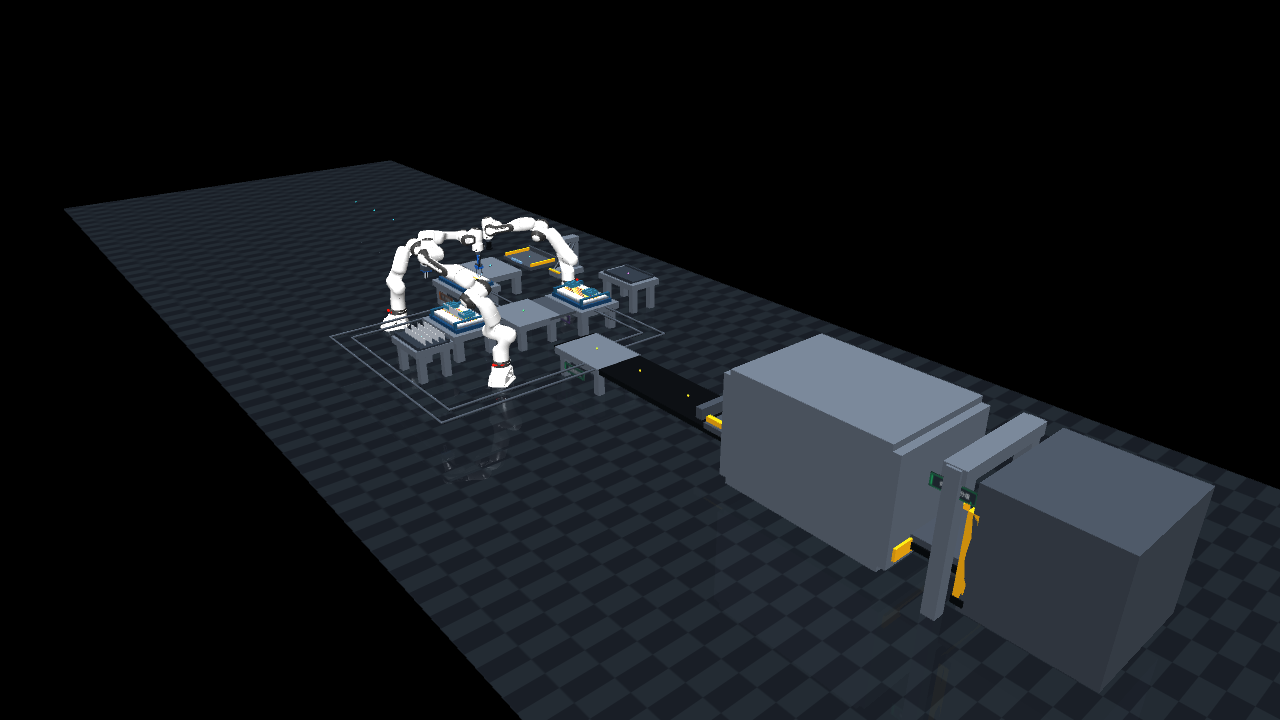
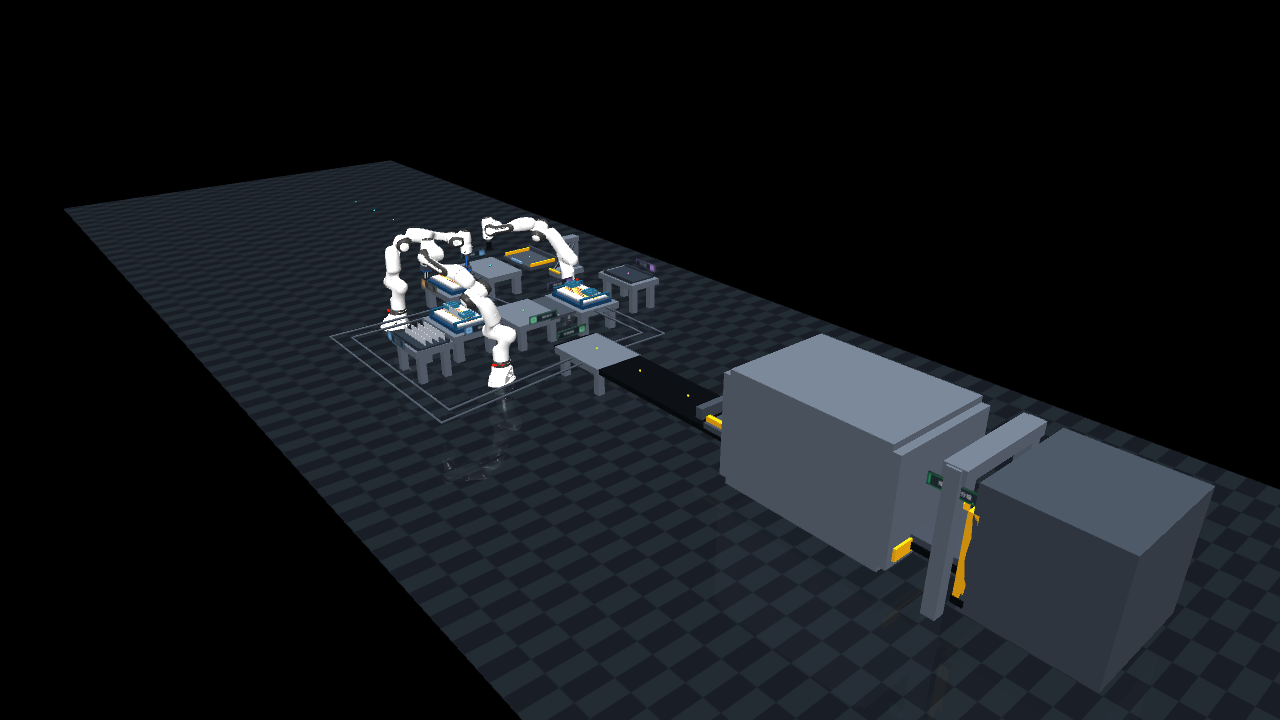
fix(v2): align inspection routes and station plaques
Closes #10

diff --git a/tests/v2/test_v2_dual_line_scene.py b/tests/v2/test_v2_dual_line_scene.py
@@ -385,9 +385,9 @@ def test_v2_arm3_cell_matches_the_marked_south_magazine_layout(model) -> None:
     # between the two tabletop footprints.
     assert float(install[1] - magazine[1]) >= 0.39
 
-    # The B-line wait lies beyond the complete Arm3 cell and approaches the
-    # relocated shared table from the east.  Runtime waypoints supply the
-    # south dog-leg; a direct install→wait chord is intentionally not used.
+    # The B-line wait lies beyond the complete Arm3 cell. Runtime waypoints
+    # supply the south dog-leg; only the final wait→S4 segment runs directly
+    # into the shared table centre.
     assert float(merge_wait[0] - arm3[0]) >= 0.55
     assert float(arm3[1] - merge_wait[1]) >= 0.65
     assert 0.10 <= float(merge_wait[0] - merge[0]) <= 0.20
@@ -473,7 +473,7 @@ def test_v2_s3_s4_routes_remain_on_the_station_transport_plane(model) -> None:
         station_height,
     )
 
-    segment_counts = {"a": 2, "b": 5}
+    segment_counts = {"a": 2, "b": 4}
     for branch, count in segment_counts.items():
         for side in ("left", "right"):
             for index in range(1, count + 1):
@@ -483,7 +483,7 @@ def test_v2_s3_s4_routes_remain_on_the_station_transport_plane(model) -> None:
 
     for side in ("left", "right"):
         with pytest.raises(KeyError):
-            model.geom(f"v2_install_b_s4_rail_{side}_06")
+            model.geom(f"v2_install_b_s4_rail_{side}_05")
 
     for name in (
         "v2_s3a_overpass_lift_left",
@@ -652,7 +652,9 @@ def test_v2_key_process_equipment_has_visible_chinese_station_plaques(model) -> 
         "v2_s1_station_sign",
         "v2_s2a_station_sign",
         "v2_s2b_station_sign",
+        "v2_fin_a_station_sign",
         "v2_s3a_station_sign",
+        "v2_fin_b_station_sign",
         "v2_s3b_station_sign",
         "v2_s4_station_sign",
         "v2_furnace_station_sign",
@@ -660,6 +662,94 @@ def test_v2_key_process_equipment_has_visible_chinese_station_plaques(model) -> 
         "v2_finished_output_sign",
     ):
         model.geom(geom_name)
+
+
+def test_v2_each_table_has_a_distinct_correctly_named_prominent_plaque(model) -> None:
+    """Every worktable needs its own truthful sign above an outside edge."""
+
+    tables = (
+        ("v2_station_s1_top", "v2_s1_station_sign"),
+        ("v2_station_s2a_top", "v2_s2a_station_sign"),
+        ("v2_station_s2b_top", "v2_s2b_station_sign"),
+        ("v2_fin_table_a_top", "v2_fin_a_station_sign"),
+        ("v2_station_s3a_top", "v2_s3a_station_sign"),
+        ("v2_fin_table_b_top", "v2_fin_b_station_sign"),
+        ("v2_station_s3b_top", "v2_s3b_station_sign"),
+        ("v2_station_s4_top", "v2_s4_station_sign"),
+    )
+    material_ids: set[int] = set()
+    for tabletop_name, plaque_name in tables:
+        tabletop = model.geom(tabletop_name)
+        plaque = model.geom(plaque_name)
+        assert float(plaque.pos[2]) > float(tabletop.pos[2] + tabletop.size[2])
+        assert abs(float(plaque.pos[0])) > float(tabletop.size[0]) or abs(float(plaque.pos[1])) > float(
+            tabletop.size[1]
+        )
+        material_ids.add(int(plaque.matid[0]))
+    assert len(material_ids) == len(tables)
+
+    root = ElementTree.parse(V2_XML).getroot()
+    textures = {
+        node.attrib["name"]: node.attrib["file"]
+        for node in root.findall("./asset/texture")
+        if "file" in node.attrib
+    }
+    assert {
+        textures["v2_s1_sign_tex"],
+        textures["v2_s2a_sign_tex"],
+        textures["v2_s2b_sign_tex"],
+        textures["v2_fin_a_sign_tex"],
+        textures["v2_s3a_sign_tex"],
+        textures["v2_fin_b_sign_tex"],
+        textures["v2_s3b_sign_tex"],
+        textures["v2_s4_sign_tex"],
+    } == {
+        "assets/signs/v2_s1_base_loading_sign.png",
+        "assets/signs/v2_s2a_dispensing_sign.png",
+        "assets/signs/v2_s2b_coating_inspection_sign.png",
+        "assets/signs/v2_fin_a_supply_sign.png",
+        "assets/signs/v2_s3a_install_sign.png",
+        "assets/signs/v2_fin_b_supply_sign.png",
+        "assets/signs/v2_s3b_install_sign.png",
+        "assets/signs/v2_s4_pre_braze_inspection_sign.png",
+    }
+
+
+def test_v2_s1_s2a_has_a_visible_aisle_and_full_length_slide_rail(model) -> None:
+    """The first two tabletops must not hide almost the whole slide rail."""
+
+    s1 = np.asarray(model.body("v2_station_s1").pos[:2], dtype=float)
+    s2a = np.asarray(model.body("v2_station_s2a").pos[:2], dtype=float)
+    s1_top = model.geom("v2_station_s1_top")
+    s2a_top = model.geom("v2_station_s2a_top")
+    visible_y_gap = abs(float(s1[1] - s2a[1])) - float(
+        s1_top.size[1] + s2a_top.size[1],
+    )
+    assert visible_y_gap >= 0.10
+    assert float(np.linalg.norm(s2a - s1)) >= 0.49
+    for side in ("left", "right"):
+        rail = model.geom(f"v2_s1_s2a_rail_{side}")
+        assert 2.0 * float(rail.size[1]) >= 0.49
+
+
+def test_v2_branch_b_visible_rails_enter_the_exact_s4_centre(model) -> None:
+    """The right-hand route must not stop at an offset east-side spur."""
+
+    import mujoco
+
+    data = mujoco.MjData(model)
+    mujoco.mj_forward(model, data)
+    s4 = np.asarray(data.site("v2_station_s4_dock").xpos, dtype=float)
+    closest_endpoints: list[np.ndarray] = []
+    for side in ("left", "right"):
+        rail = model.geom(f"v2_install_b_s4_rail_{side}_04")
+        rotation = np.asarray(data.geom_xmat[rail.id], dtype=float).reshape(3, 3)
+        axis = rotation[:, 2]
+        center = np.asarray(data.geom_xpos[rail.id], dtype=float)
+        half_length = float(rail.size[1])
+        endpoints = (center - axis * half_length, center + axis * half_length)
+        closest_endpoints.append(min(endpoints, key=lambda point: float(np.linalg.norm(point - s4))))
+    np.testing.assert_allclose(np.mean(closest_endpoints, axis=0), s4 + (0.0, 0.0, -0.027))
 
 
 def test_v2_two_installation_branches_each_show_twelve_raw_fins(model) -> None:
@@ -878,7 +968,7 @@ def test_v2_robot_layout_reaches_every_authored_process_target_with_margin() -> 
             (
                 arm2,
                 arm2.solve_ik(
-                    Pose((-0.35, 0.0, 0.32), top_down_reversed),
+                    Pose((-0.35, -0.10, 0.32), top_down_reversed),
                     tcp=True,
                     full_orientation=True,
                     max_iterations=1_000,

diff --git a/scripts/generate_v2_station_signs.py b/scripts/generate_v2_station_signs.py
@@ -1,0 +1,105 @@
+"""Generate the V2 worktable plaques used by the MuJoCo scene.
+
+The files are generated rather than hand-edited so station wording, colours,
+resolution, and visual hierarchy remain reproducible.
+"""
+
+from __future__ import annotations
+
+from dataclasses import dataclass
+from pathlib import Path
+
+from PIL import Image, ImageDraw, ImageFont
+
+ROOT = Path(__file__).resolve().parents[1]
+OUTPUT_DIR = ROOT / "assets" / "signs"
+FONT_CANDIDATES = (
+    Path("/System/Library/Fonts/STHeiti Medium.ttc"),
+    Path("/System/Library/Fonts/PingFang.ttc"),
+    Path("/usr/share/fonts/opentype/noto/NotoSansCJK-Regular.ttc"),
+)
+
+
+@dataclass(frozen=True, slots=True)
+class Plaque:
+    filename: str
+    code: str
+    title: str
+    accent: str
+
+
+PLAQUES = (
+    Plaque("v2_s1_base_loading_sign.png", "S1", "基板上料", "#6DA8D9"),
+    Plaque("v2_s2a_dispensing_sign.png", "S2A", "钎料涂覆", "#D9A05E"),
+    Plaque("v2_s2b_coating_inspection_sign.png", "S2B", "焊料检测", "#68B88C"),
+    Plaque("v2_fin_a_supply_sign.png", "A线", "翅片上料", "#A97ED1"),
+    Plaque("v2_s3a_install_sign.png", "S3A", "翅片装配", "#A97ED1"),
+    Plaque("v2_fin_b_supply_sign.png", "B线", "翅片上料", "#72A7D6"),
+    Plaque("v2_s3b_install_sign.png", "S3B", "翅片装配", "#72A7D6"),
+    Plaque("v2_s4_pre_braze_inspection_sign.png", "S4", "焊前检测", "#68B88C"),
+)
+
+
+def _font(size: int) -> ImageFont.FreeTypeFont:
+    for candidate in FONT_CANDIDATES:
+        if candidate.exists():
+            return ImageFont.truetype(str(candidate), size=size)
+    raise FileNotFoundError("未找到支持中文的铭牌字体")
+
+
+def _centered_y(
+    draw: ImageDraw.ImageDraw,
+    text: str,
+    font: ImageFont.FreeTypeFont,
+    height: int,
+) -> float:
+    bounds = draw.textbbox((0, 0), text, font=font)
+    return 0.5 * (height - (bounds[3] - bounds[1])) - bounds[1]
+
+
+def render(plaque: Plaque) -> Image.Image:
+    width, height = 1024, 256
+    image = Image.new("RGB", (width, height), "#18232D")
+    draw = ImageDraw.Draw(image)
+    accent = plaque.accent
+    draw.rounded_rectangle(
+        (10, 10, width - 11, height - 11),
+        radius=34,
+        outline=accent,
+        width=12,
+    )
+    draw.rounded_rectangle(
+        (40, 38, 252, height - 39),
+        radius=26,
+        fill=accent,
+    )
+    code_font = _font(72)
+    title_font = _font(92)
+    code_bounds = draw.textbbox((0, 0), plaque.code, font=code_font)
+    code_x = 146 - 0.5 * (code_bounds[2] - code_bounds[0]) - code_bounds[0]
+    draw.text(
+        (code_x, _centered_y(draw, plaque.code, code_font, height)),
+        plaque.code,
+        font=code_font,
+        fill="#10202B",
+    )
+    title_bounds = draw.textbbox((0, 0), plaque.title, font=title_font)
+    title_x = 632 - 0.5 * (title_bounds[2] - title_bounds[0]) - title_bounds[0]
+    draw.text(
+        (title_x, _centered_y(draw, plaque.title, title_font, height)),
+        plaque.title,
+        font=title_font,
+        fill="#F4F7FA",
+    )
+    draw.ellipse((952, 106, 986, 140), fill=accent)
+    return image
+
+
+def main() -> None:
+    OUTPUT_DIR.mkdir(parents=True, exist_ok=True)
+    for plaque in PLAQUES:
+        render(plaque).save(OUTPUT_DIR / plaque.filename, optimize=True)
+
+
+if __name__ == "__main__":
+    main()

diff --git a/brazing_sim/dual_line/scene_adapter.py b/brazing_sim/dual_line/scene_adapter.py
@@ -27,7 +27,6 @@ _V1_COMB_LONGITUDINAL_CLEARANCE_M = 0.008
 _V1_COMB_LATERAL_CLEARANCE_M = 0.010
 _BRANCH_B_WEST_CLEAR_X_M = 0.05
 _BRANCH_B_SOUTH_CLEAR_Y_M = -1.22
-_BRANCH_B_EAST_CLEAR_X_M = 1.55
 
 
 @dataclass(slots=True)
@@ -574,11 +573,11 @@ class DualLineSceneAdapter:
         Both S3 branches remain on the station transport plane.  The A branch
         passes north of S2B.  The denser B branch first clears the S2B west
         edge, then follows the south perimeter around the Arm3 cell before
-        entering the relocated S4 from its short east-side approach.  Moving
-        the inspection table toward the furnace removes the former north-side
-        return loop and its visible reverse motion.  These waypoints use the
-        complete 400-by-280 mm pallet envelope; they are not centreline-only
-        shortcuts.
+        running directly from its southeast wait into the relocated S4 centre.
+        Moving the inspection table toward the furnace removes the former
+        north-side return loop and its visible reverse motion.  These waypoints
+        use the complete 400-by-280 mm pallet envelope; they are not
+        centreline-only shortcuts.
         """
 
         branch_stations = {TrayOwner.INSTALL_A, TrayOwner.INSTALL_B}
@@ -606,18 +605,6 @@ class DualLineSceneAdapter:
                 )
             return (final_target.copy(),)
         if source_owner in branch_waits and target_owner is TrayOwner.MERGE:
-            if source_owner is TrayOwner.MERGE_B_WAIT:
-                return (
-                    np.asarray(
-                        [
-                            _BRANCH_B_EAST_CLEAR_X_M,
-                            float(final_target[1]),
-                            float(final_target[2]),
-                        ],
-                        dtype=float,
-                    ),
-                    final_target.copy(),
-                )
             return (final_target.copy(),)
         if target_owner is TrayOwner.FURNACE:
             front_lift_low = np.asarray([2.75, 0.0, 0.225])
@@ -784,8 +771,8 @@ class DualLineSceneAdapter:
         for actuator_id in self._route_actuators.values():
             self.data.ctrl[actuator_id] = 0.0
         routes = {
-            (TrayOwner.S1, TrayOwner.S2A): ("v2_s1_s2a_actuator", 0.403),
-            (TrayOwner.S2A, TrayOwner.S2B): ("v2_s2a_s2b_actuator", 0.850),
+            (TrayOwner.S1, TrayOwner.S2A): ("v2_s1_s2a_actuator", 0.492443),
+            (TrayOwner.S2A, TrayOwner.S2B): ("v2_s2a_s2b_actuator", 0.855862),
             (TrayOwner.S2B, TrayOwner.INSTALL_A): ("v2_branch_a_actuator", 0.502494),
             (TrayOwner.S2B, TrayOwner.INSTALL_B): ("v2_branch_b_actuator", 0.474342),
             (TrayOwner.S4, TrayOwner.BUFFER_1): ("v2_buffer_index_actuator", 0.450),

diff --git a/brazing_sim/dual_line/topology.py b/brazing_sim/dual_line/topology.py
@@ -40,7 +40,7 @@ class DualLineTopology:
     def standard(cls) -> "DualLineTopology":
         stations = (
             Station("S1_BASE_LOADING", "S1 基板上料", (-0.55, 0.35, 0.225)),
-            Station("S2A_DISPENSING", "S2A 钎料涂覆", (-0.35, 0.00, 0.225)),
+            Station("S2A_DISPENSING", "S2A 钎料涂覆", (-0.35, -0.10, 0.225)),
             Station("S2B_MATERIAL_INSPECTION", "S2B 焊料检测与分流", (0.50, 0.00, 0.225)),
             Station("S3A_ARM1_INSTALL", "S3A Arm1 翅片安装", (0.55, 0.50, 0.225)),
             Station("FIN_TABLE_A", "A线翅片料台", (0.45, 1.05, 0.265)),

diff --git a/tests/v2/test_v2_dual_line_domain.py b/tests/v2/test_v2_dual_line_domain.py
@@ -21,6 +21,7 @@ def test_dual_line_topology_has_two_install_branches_and_one_forward_flow() -> N
     topology = DualLineTopology.standard()
 
     assert topology.station("S1_BASE_LOADING").world_xyz[:2] == (-0.55, 0.35)
+    assert topology.station("S2A_DISPENSING").world_xyz[:2] == (-0.35, -0.10)
     assert topology.successors("S2B_MATERIAL_INSPECTION") == (
         "S3A_ARM1_INSTALL",
         "S3B_ARM3_INSTALL",

diff --git a/tests/v2/test_v2_scene_adapter.py b/tests/v2/test_v2_scene_adapter.py
@@ -67,10 +67,7 @@ def test_v2_s3_s4_waypoints_are_planar_north_and_south_bypasses() -> None:
             source_owner=TrayOwner.MERGE_B_WAIT,
             target_owner=TrayOwner.MERGE,
         ),
-        (
-            (1.55, 0.00, 0.225),
-            (1.40, 0.00, 0.225),
-        ),
+        (merge,),
         atol=1.0e-9,
     )
 

diff --git a/docs/architecture/视觉模型与资产说明.md b/docs/architecture/视觉模型与资产说明.md
@@ -12,11 +12,12 @@ CAD，或者没有足以支持项目再分发的清晰授权。
 
 ## 仓库自制铭牌
 
-`assets/signs/` 下的 `station_s1_sign.png`、`station_s2a_sign.png`、
-`station_s2b_sign.png`、`station_s3_sign.png`、`furnace_sign.png` 和
-`post_inspection_sign.png` 是本项目为 MuJoCo 场景自行制作的中文设备铭牌，不包含
-第三方图片、商标或模型内容。六张图片均为 `512 × 128` RGB PNG，由中文工位名称
-排版后本地导出，用作正式场景中的纯视觉纹理；它们不参与碰撞、质量或接触计算。
+`assets/signs/` 下的 V1 站点图以及 `v2_s1_*`、`v2_s2*`、`v2_fin_*`、
+`v2_s3*`、`v2_s4_*`、`furnace_sign.png` 和 `post_inspection_sign.png`
+是本项目为 MuJoCo 场景自行制作的中文设备铭牌，不包含第三方图片、商标或模型内容。
+V2 八张功能桌使用互不复用的 `1024 × 256` 专属纹理，由
+`scripts/generate_v2_station_signs.py` 统一生成，确保站号、工序文字与台面颜色一致。
+铭牌只作为视觉纹理，不参与碰撞、质量或接触计算。
 
 ## 参考来源
 
